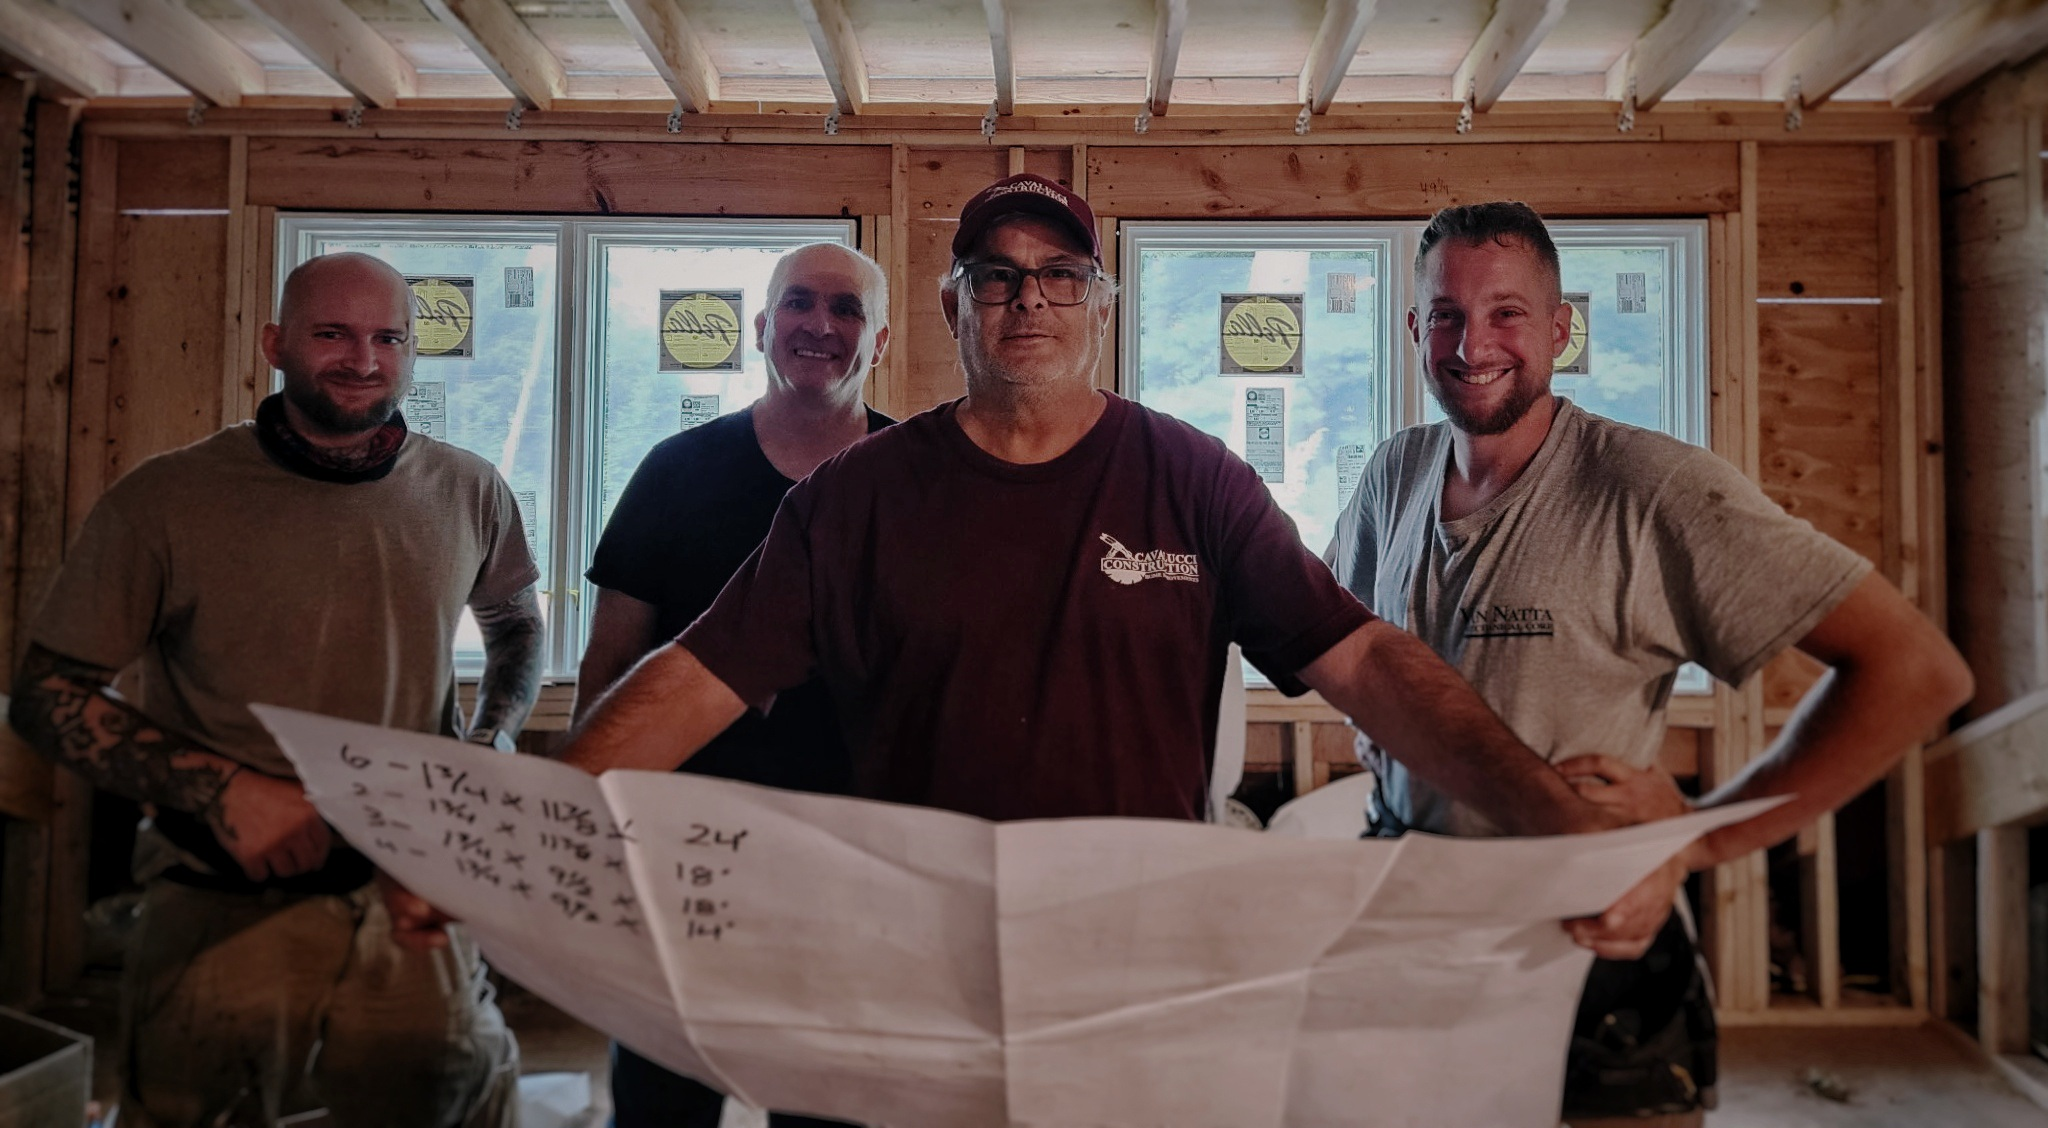
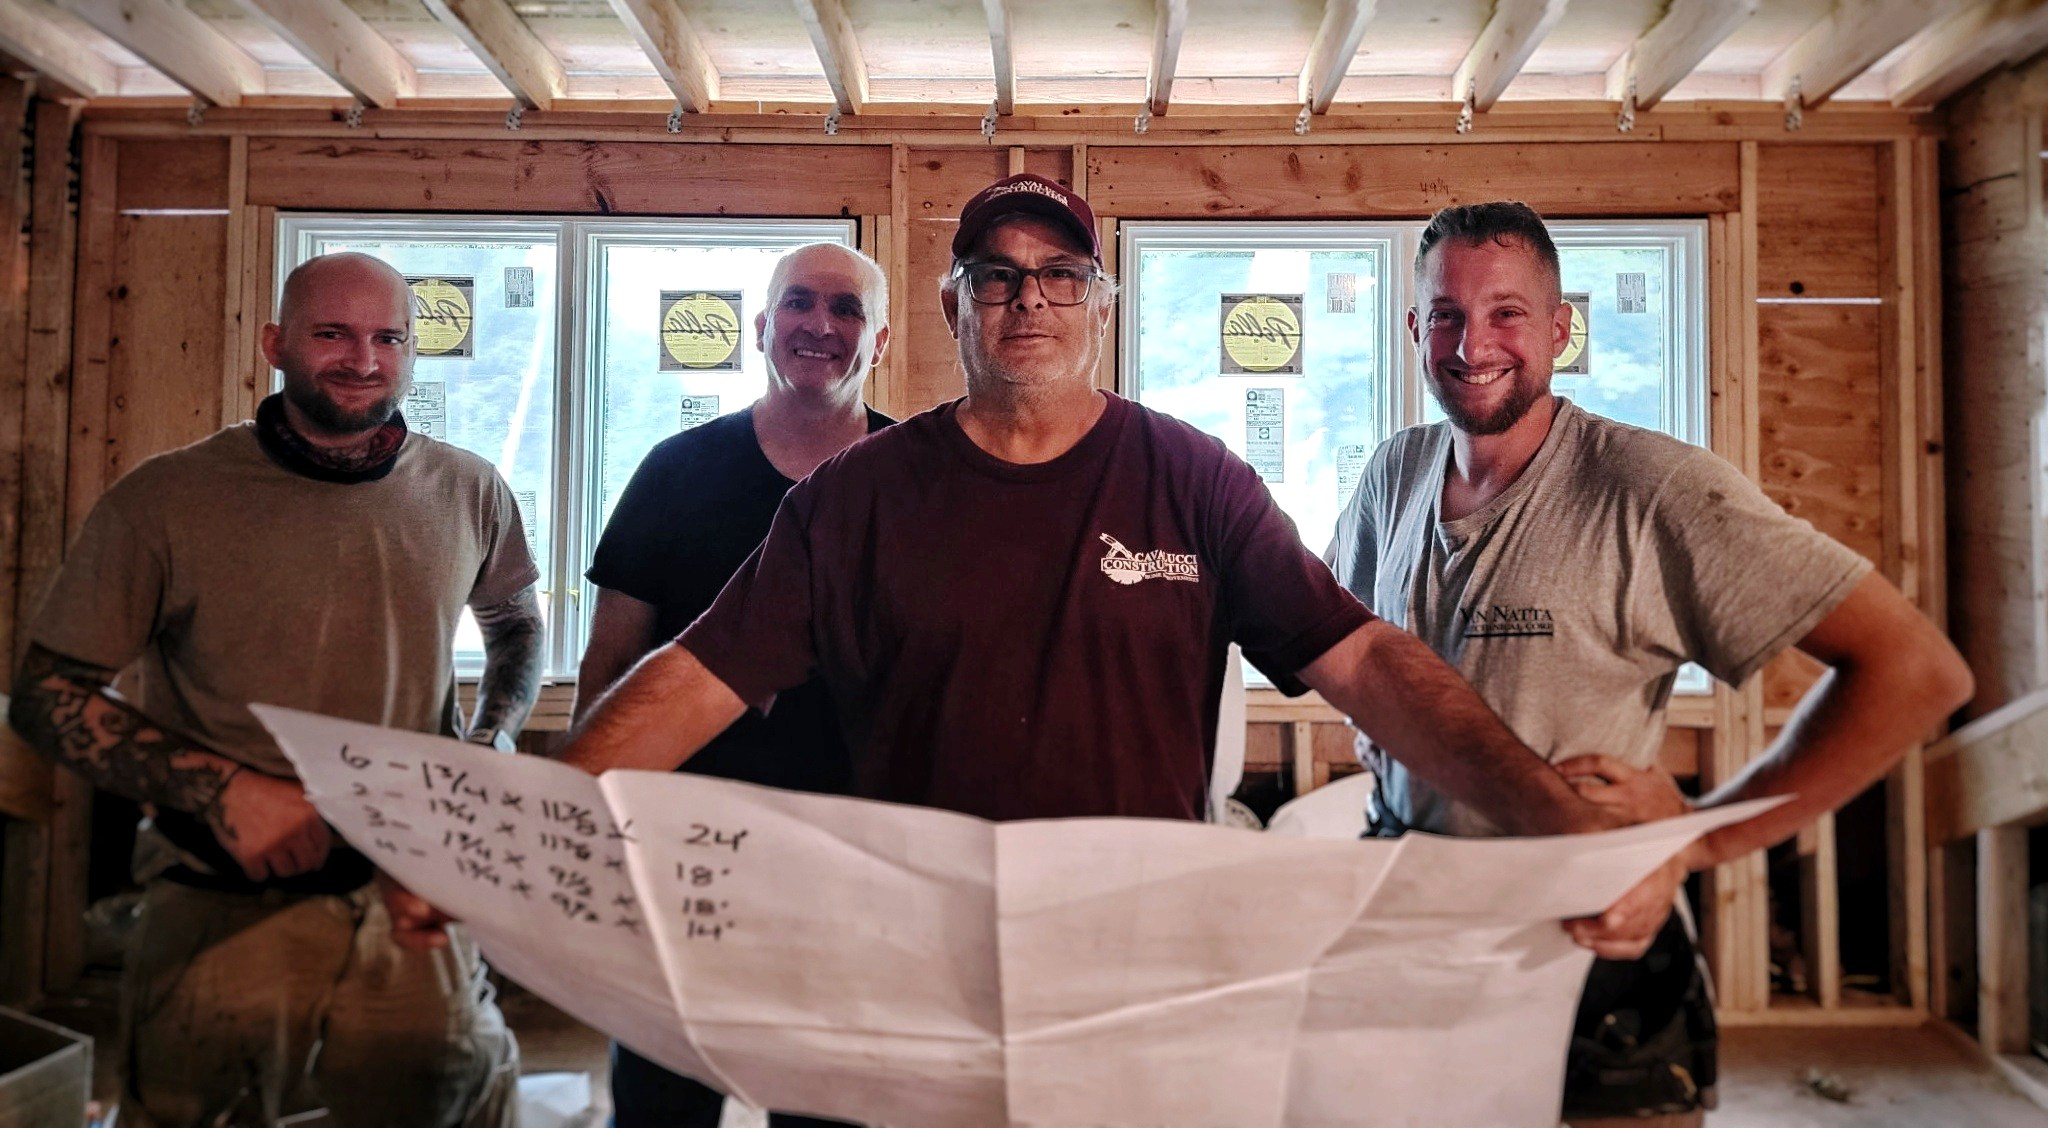
forgot about main title was not visible, fixed and set a stronger shadow effect in global.css

diff --git a/pages/about.html b/pages/about.html
@@ -46,7 +46,7 @@
   <section class="hero d-flex align-items-center">  
     <div class="container">
       <div class="about-content">
-        <h1 class="shadow-text">Care meets<span class="h1 accent"> community</span></h1>
+        <h1 class="shadow-text">Care meets<span class="h1" style="color:var(--accent);"> community</span></h1>
         <p>
           Our dedication to quality has earned the trust of clients and skilled partners alike, creating a network of professionals who share our passion for excellence. 
         </p>

diff --git a/styles/global.css b/styles/global.css
@@ -203,7 +203,7 @@ section.hero {
 
 /* Hero Text Shadow */
 .shadow-text{
-  text-shadow: 0 0 10px rgba(20, 20, 20, 0.361);
+  text-shadow: 0 5px 10px rgba(20, 20, 20, 0.815);
 }
 
 .custom-margin{
